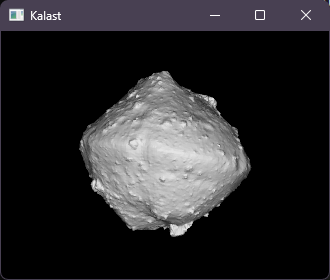
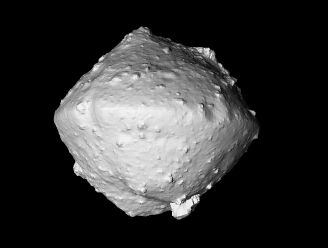
Make example with orbit around Sun working

diff --git a/src/simu/routines/core.rs b/src/simu/routines/core.rs
@@ -11,7 +11,7 @@ use crate::{
     find_ref_orbit, matrix_orientation_obliquity, matrix_spin, position_in_inertial_frame,
     update_colormap_scalar,
     util::*,
-    AirlessBody, BodyData, FoldersRun, Interior, MovementMode, Time, Window,
+    AirlessBody, BodyData, FoldersRun, Interior, MovementMode, ProjectionMode, Time, Window,
 };
 
 use downcast_rs::{impl_downcast, DowncastSync};
@@ -181,16 +181,18 @@ pub trait Routines: DowncastSync {
                 if let Some(body) = config.bodies.first() {
                     match &body.state {
                         State::Orbit(orbit) => match &orbit.frame {
-                            FrameCenter::Sun => -position_in_inertial_frame(
-                                orbit.a * AU,
-                                orbit.e,
-                                orbit.i * RPD,
-                                orbit.node * RPD,
-                                orbit.peri * RPD,
-                                elapsed_from_start as Float,
-                                orbit.tp,
-                                MU_SUN,
-                            ),
+                            FrameCenter::Sun => {
+                                -position_in_inertial_frame(
+                                    orbit.a * AU,
+                                    orbit.e,
+                                    orbit.i * RPD,
+                                    orbit.node * RPD,
+                                    orbit.peri * RPD,
+                                    elapsed_from_start as Float,
+                                    orbit.tp,
+                                    MU_SUN,
+                                ) * 1e-3
+                            }
                             FrameCenter::Body(_) => {
                                 if time.iteration() == 0 {
                                     println!("Warning: The Sun is set to be configured from the state of the primary body but only works if the state is an orbit centered on the Sun.");
@@ -347,7 +349,16 @@ pub trait Routines: DowncastSync {
                 };
                 scene.camera.up = config.scene.camera.up;
                 scene.camera.up_world = config.scene.camera.up;
-                scene.camera.projection = config.scene.camera.projection;
+                let mut projection = config.scene.camera.projection;
+
+                match &mut projection {
+                    ProjectionMode::Perspective(fovy) => {
+                        *fovy *= RPD;
+                    }
+                    _ => {}
+                }
+
+                scene.camera.projection = projection;
 
                 if let Some(near) = config.scene.camera.near {
                     scene.camera.near = Some(near);
@@ -438,8 +449,8 @@ pub trait Routines: DowncastSync {
                         elapsed_from_start as Float,
                         orbit.tp,
                         mu_ref,
-                    );
-                    matrix_translation = Mat4::new_translation(&(pos * 1e-3));
+                    ) * 1e-3;
+                    matrix_translation = Mat4::new_translation(&pos);
                 }
 
                 match &orbit.frame {

diff --git a/src/win/camera.rs b/src/win/camera.rs
@@ -10,7 +10,7 @@ pub const POSITION: Vec3 = Vec3::new(5.0, 0.0, 0.0);
 pub const ANCHOR: Vec3 = Vec3::new(0.0, 0.0, 0.0);
 pub const NEAR_FACTOR: Float = 1e-5;
 pub const FAR_FACTOR: Float = 2.0;
-pub const FOVY: Float = 40.0 * RPD;
+pub const FOVY: Float = 30.0;
 
 pub const SENSITIVITY: Float = 1.0;
 pub const SENSITIVITY_CORRECTION: Float = 1e-3;

diff --git a/src/util.rs b/src/util.rs
@@ -38,6 +38,7 @@ pub const ASTRONOMICAL_UNIT: Float = 1.495978707e11;
 
 /// Alias to ASTRONOMICAL_UNIT.
 pub const AU: Float = ASTRONOMICAL_UNIT;
+pub const AU_KM: Float = AU * 1e-3;
 
 /// [Solar flux constant](https://en.wikipedia.org/wiki/Solar_constant)
 pub const SOLAR_CONSTANT: Float = 1361.0;
